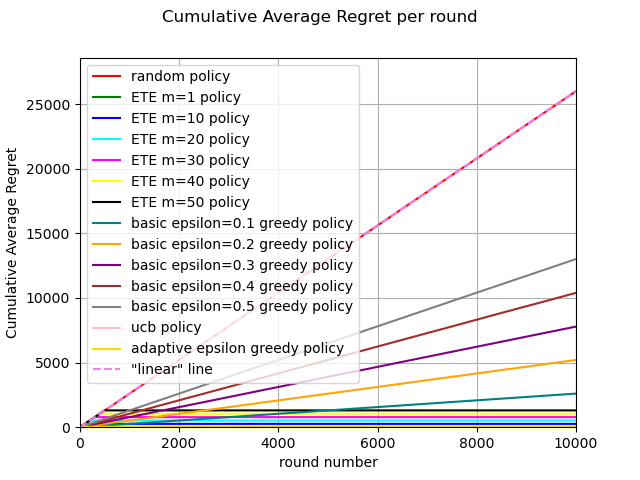
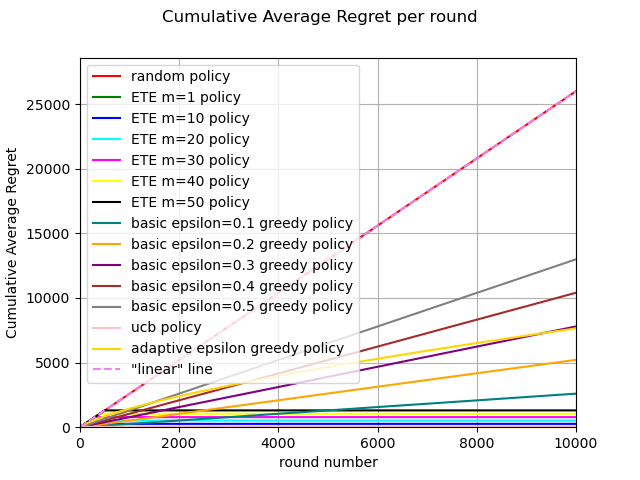
up

diff --git a/Ass2/final_visual.py b/Ass2/final_visual.py
@@ -18,7 +18,9 @@ def cal_uni_expectation(upper, lower):
 
 def epsilon_fuc(t):
     # Define epsilon as a function of time t
-    return 1.0 / (1.0 + t)
+    # return 1.0 / (1.0 + t)
+    t = t + 1
+    return (10 * math.log(t) / t)**(1/3)
 
 def arm_selection_random_selction_policy(num_of_arms):
     """
@@ -76,7 +78,9 @@ def arm_selection_ete_policy(round, num_of_arms, exploration_phase, current_best
 if __name__ == "__main__":
     T = 2000					        # number of rounds to simulate
     num_of_arms = 10
-    winning_parameters = np.array([tuple([0,2]), tuple([1,9]), tuple([1,3]), tuple([3,5]), tuple([4,6]), tuple([2,10]), tuple([1,5]), tuple([4,10]), tuple([5,7]), tuple([0,10])])
+    winning_parameters = np.array([tuple([0,2]), tuple([1,9]), tuple([1,3]), tuple([3,5]), \
+                                   tuple([4,6]), tuple([2,10]), tuple([1,5]), tuple([4,10]), \
+                                    tuple([5,7]), tuple([0,10])])
     total_iteration = 200               # number of iterations to the MAB simulation
     optimal_arm = 7
     reward_avg = np.sum(np.array([cal_uni_expectation(x[1], x[0]) for x in winning_parameters])) / num_of_arms
